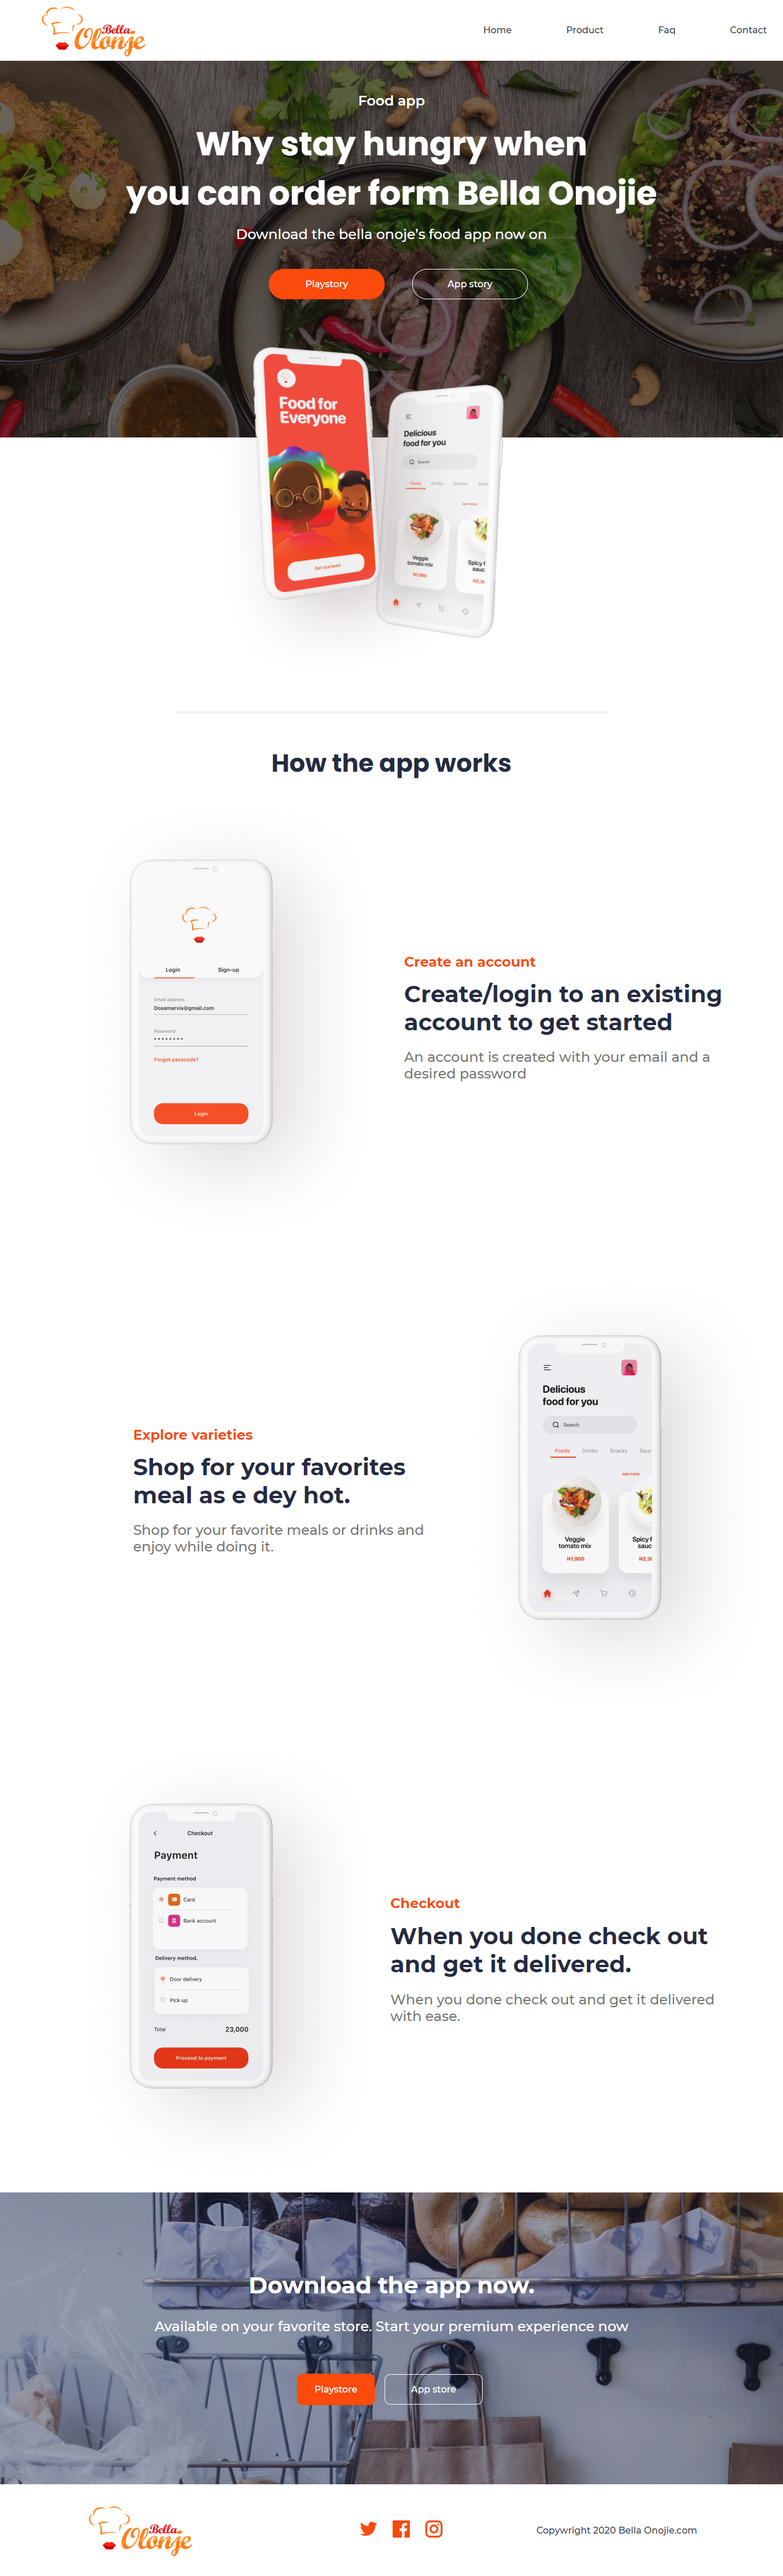
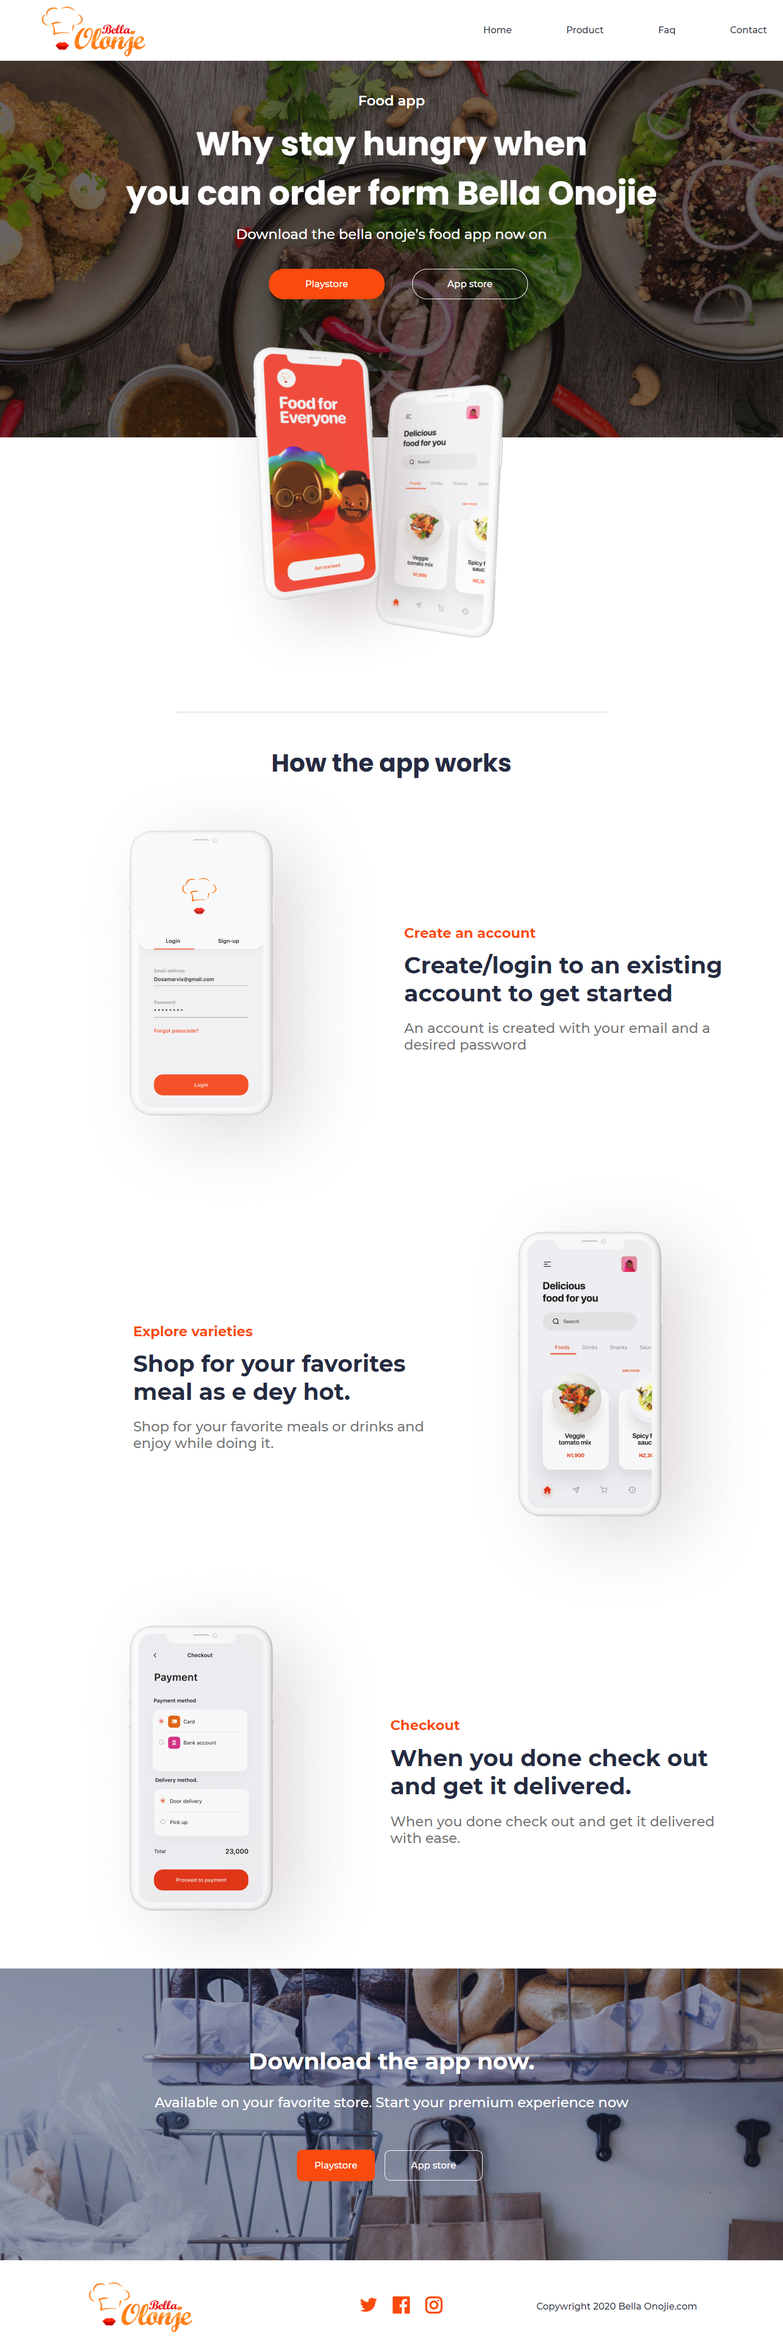
Correções

diff --git a/src/components/Banner.tsx b/src/components/Banner.tsx
@@ -17,19 +17,19 @@ export function Banner(){
                 <div className={styles.button}>
                     <button
                         type= 'button'
-                        className={styles.playStory}
+                        className={styles.playStore}
                     >
 
-                        Playstory
+                        Playstore
 
                     </button>
 
                     <button
                         type= 'button'
-                        className={styles.appStory}
+                        className={styles.appStore}
                     >
 
-                        App story
+                        App store
 
                     </button>
                        

diff --git a/src/styles/components/Banner.module.css b/src/styles/components/Banner.module.css
@@ -64,12 +64,12 @@
     border: 1px solid #FFFFFF;
 }
 
-.playStory {
+.playStore {
     background-color: var(--orange);
     color: var(--white);
 }
 
-.appStory {
+.appStore {
     color: var(--white);
     background-color: transparent;
 }

diff --git a/src/styles/components/SectionMob.module.css b/src/styles/components/SectionMob.module.css
@@ -2,7 +2,8 @@
     display: flex;
     align-items: center;
     max-width: 1160px;
-    
+    margin-top: -50px;
+    margin-bottom: -80px;
 }
 
 .textZone > span {
